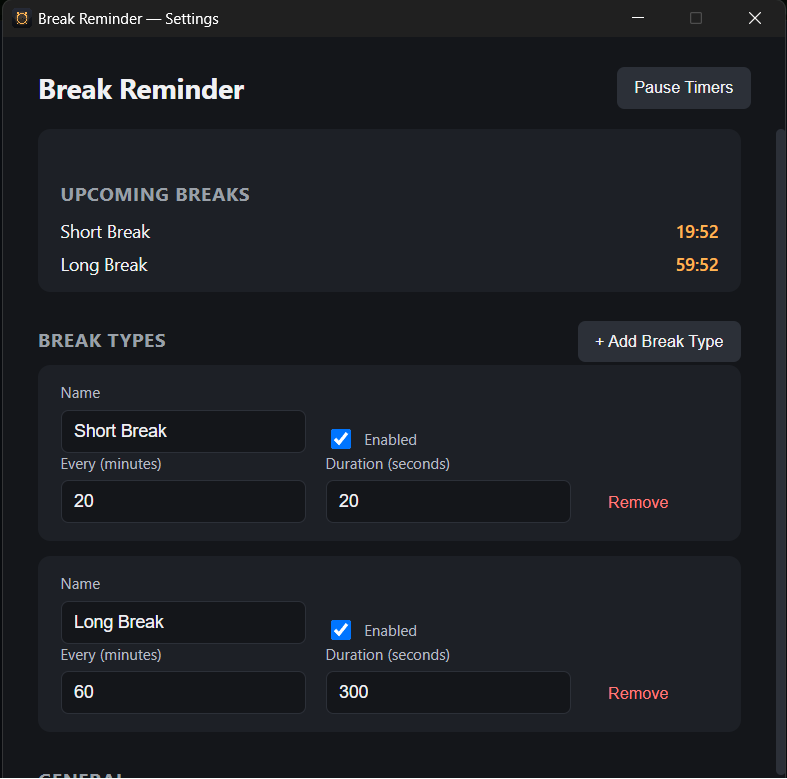
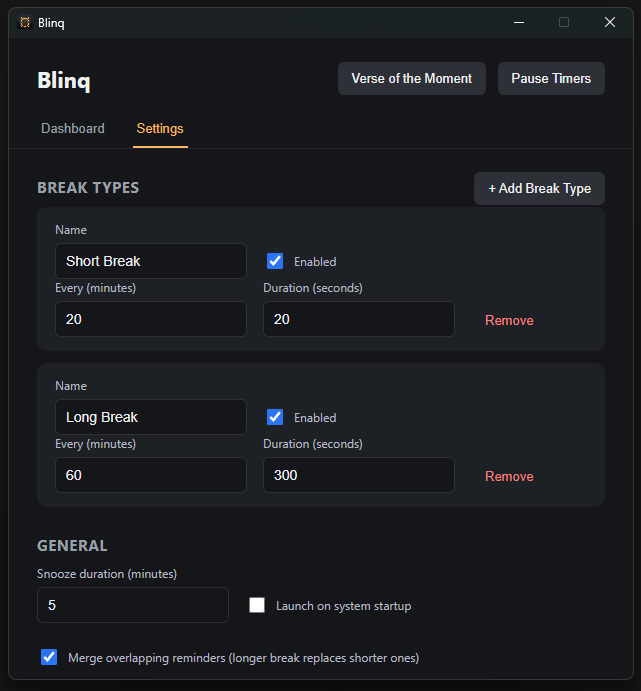
Update README screenshots

diff --git a/README.md b/README.md
@@ -3,9 +3,14 @@
 A lightweight Windows desktop app that reminds you to take breaks at intervals you configure. Set up as many break types as you like — a short eye-rest break every 20 minutes, a longer stretch break every hour — and it'll nudge you with a full-screen reminder when it's time.
 
 <p align="center">
-  <img src="docs/settings-window.png" alt="Blinq settings window" width="500">
+  <img src="docs/dashboard-window.png" alt="Blinq dashboard window" width="500">
   &nbsp;&nbsp;
+  <img src="docs/settings-window.png" alt="Blinq settings window" width="500">
+</p>
+<p align="center">
   <img src="docs/reminder-overlay.png" alt="Blinq full-screen reminder overlay" width="500">
+  &nbsp;&nbsp;
+  <img src="docs/ayah_on_every_launch.png" alt="Blinq Quran verse welcome screen on every launch" width="500">
 </p>
 
 ## Features
